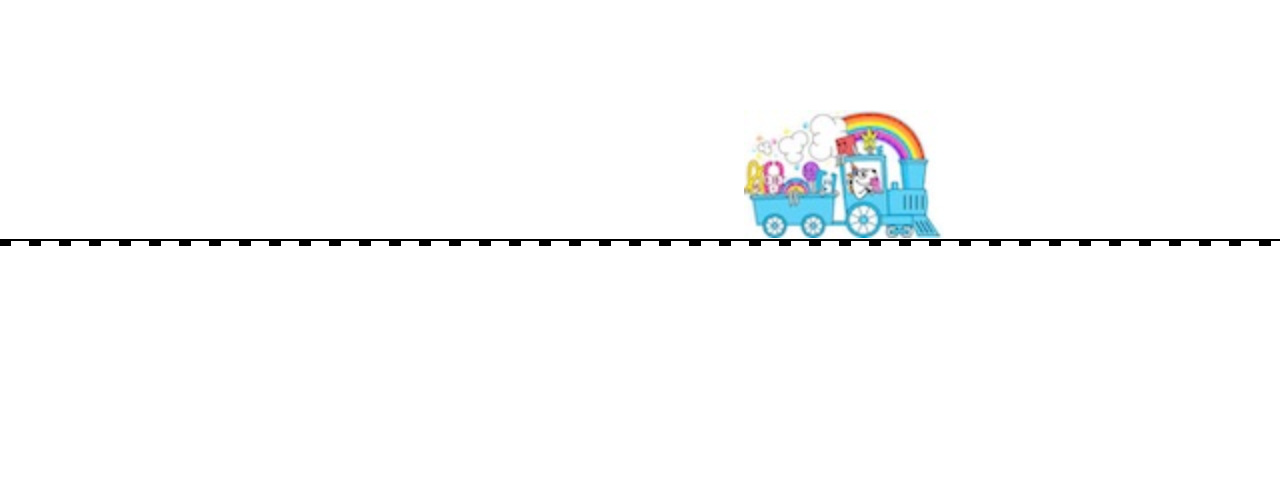
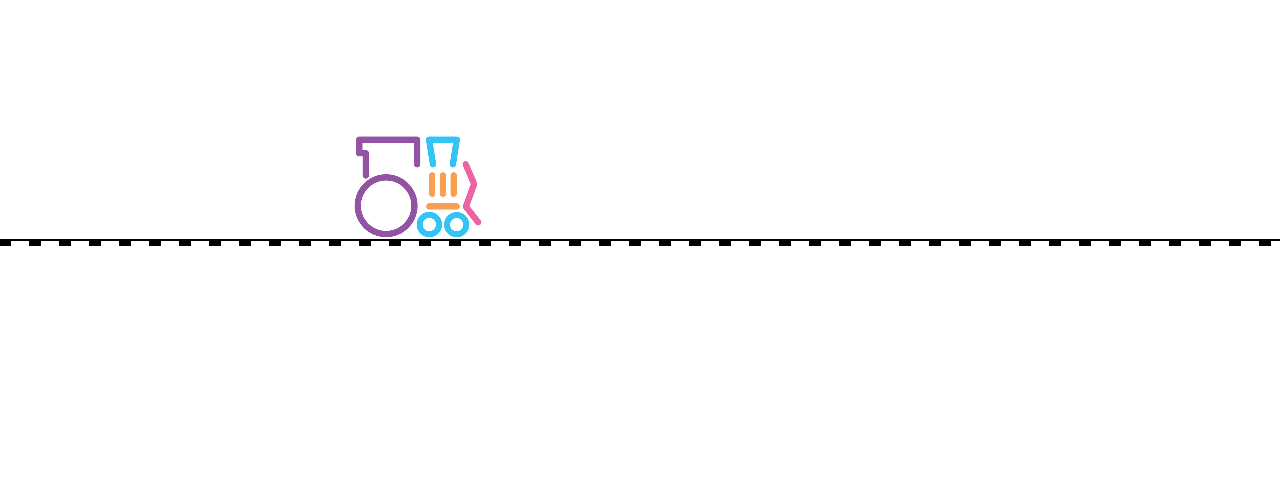
Notion - Update docs

Changed region(s): [[0.5625, 0.2188, 0.75, 0.5], [0.2812, 0.2812, 0.375, 0.5], [0.25, 0.4062, 0.2812, 0.4375]]

diff --git a/content/examples/01_vectors/exercise_1_5_solution_accelerate_and_decelerate/sketch.js b/content/examples/01_vectors/exercise_1_5_solution_accelerate_and_decelerate/sketch.js
@@ -4,10 +4,12 @@
 
 let sleeperSize = 5;
 let codingTrain;
+// Size for the train
+let trainW = 64;
 let codingTrainImage;
 
 function preload() {
-  codingTrainImage = loadImage("codingTrainImage.jpg");
+  codingTrainImage = loadImage("images/train.jpg");
 }
 
 function setup() {
@@ -17,13 +19,14 @@ function setup() {
   // which is why we need to subtract half the width
   // and all of the height to get it perfectly centered.
   const startingPosition = createVector(
-    width / 2 - codingTrainImage.width / 2,
-    height / 2 - codingTrainImage.height - 1 // subtract 1 to place the image just above the railroad
+    width / 2 - trainW / 2,
+    height / 2 - trainW - 1 // subtract 1 to place the image just above the railroad
   );
   codingTrain = new CodingTrain(codingTrainImage, startingPosition);
 }
 
 function keyPressed() {
+  // up and down arrow are handled in the class!
   codingTrain.keyPressed();
 }
 

diff --git a/content/01_vectors.html b/content/01_vectors.html
@@ -893,7 +893,7 @@ position.add(velocity);</pre>
   <p>Create a simulation of an object (think about a vehicle) that accelerates when you press the up arrow and brakes when you press the down arrow.</p>
   <div class="web-only solution">
     <figure>
-      <div data-type="embed" data-p5-editor="https://editor.p5js.org/natureofcode/sketches/4cRkkqg_k" data-example-path="examples/01_vectors/exercise_1_5_solution_accelerate_and_decelerate"><img src="examples/01_vectors/exercise_1_5_solution_accelerate_and_decelerate/screenshot.png"></div>
+      <div data-type="embed" data-p5-editor="https://editor.p5js.org/natureofcode/sketches/WqxzIQW-w" data-example-path="examples/01_vectors/exercise_1_5_solution_accelerate_and_decelerate"><img src="examples/01_vectors/exercise_1_5_solution_accelerate_and_decelerate/screenshot.png"></div>
       <figcaption></figcaption>
     </figure>
   </div>

diff --git a/content/examples/01_vectors/exercise_1_5_solution_accelerate_and_decelerate/codingTrain.js b/content/examples/01_vectors/exercise_1_5_solution_accelerate_and_decelerate/codingTrain.js
@@ -19,15 +19,15 @@ class CodingTrain {
     // offscreen by making it reappear on the
     // other side
     if (this.position.x > width) {
-      this.position.x = -this.image.width;
+      this.position.x = -trainW;
     }
-    if (this.position.x < 0 - this.image.width) {
+    if (this.position.x < -trainW) {
       this.position.x = width;
     }
   }
 
   show() {
-    image(this.image, this.position.x, this.position.y);
+    image(this.image, this.position.x, this.position.y, trainW, trainW);
   }
 
   keyPressed() {

diff --git a/content/examples/01_vectors/exercise_1_5_solution_accelerate_and_decelerate/index.html b/content/examples/01_vectors/exercise_1_5_solution_accelerate_and_decelerate/index.html
@@ -10,7 +10,7 @@
   <body>
     <main>
     </main>
-    <script src="sketch.js"></script>
     <script src="codingTrain.js"></script>
+    <script src="sketch.js"></script>
   </body>
 </html>
